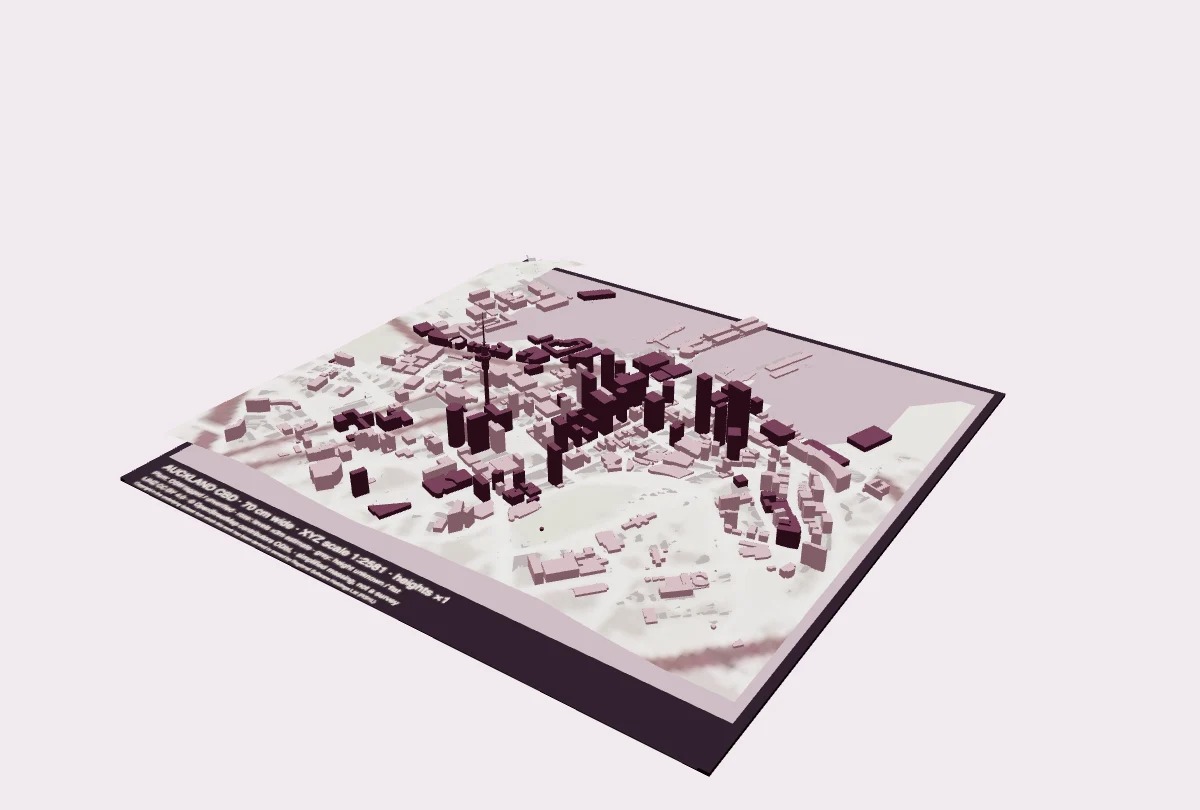
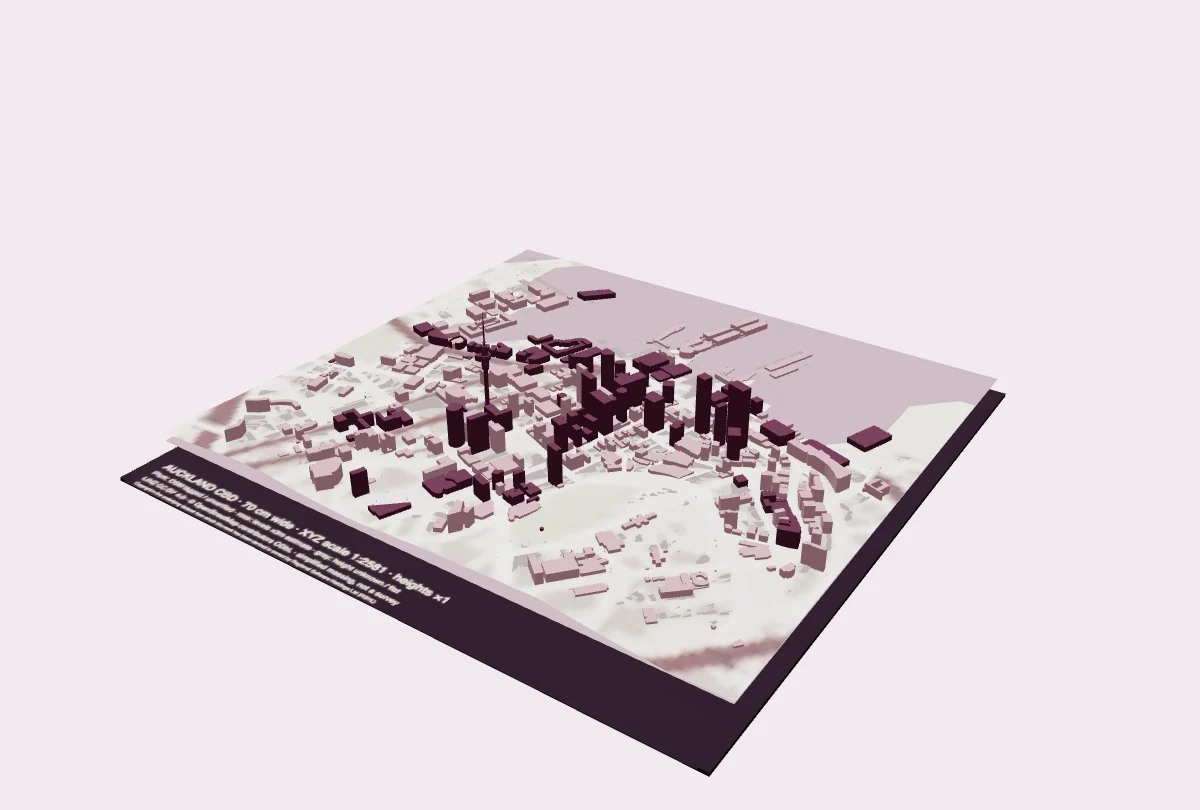
Align city water datum and request fixed-scale native AR

diff --git a/auckland/3d/index.html b/auckland/3d/index.html
@@ -1,1 +1,1 @@
-<!doctype html><html lang="en-NZ"><head><meta charset="utf-8"><meta name="viewport" content="width=device-width,initial-scale=1"><title>Auckland city in 3D · assembl lab</title><link rel="stylesheet" href="/site-v2/site-v2.css"><link rel="stylesheet" href="./style.css"><script type="importmap">{"imports":{"three":"/assets/vendor/three/three.module.min.js","three/addons/":"/assets/vendor/three/addons/"}}</script></head><body><header><a href="/auckland/">assembl. <small>lab / Auckland atlas</small></a><span>CITY + TERRAIN · 04</span></header><main><div class="intro"><p class="eyebrow">Tāmaki Makaurau · terrain you can turn</p><h1>Auckland, in three dimensions.</h1><p>Explore real city-centre footprints, sourced height tags and the land beneath them.</p></div><div class="workspace"><section class="viewer" aria-label="Interactive Auckland terrain"><div class="toolbar"><span>LINZ TERRAIN + OPEN MAP DATA</span><span>BROWSER HEIGHTS ×1</span></div><div id="stage"><img id="poster" src="./city-poster.webp" alt="Auckland CBD building footprints over real LINZ terrain"><canvas id="terrain" tabindex="0" aria-label="Auckland terrain. Drag to rotate, pinch or scroll to zoom. Use view buttons for keyboard navigation."></canvas><p id="status" role="status">Loading the terrain…</p></div><div class="city-layers"><label><input type="checkbox" data-building-layer="tagged" checked> Tagged heights</label><label><input type="checkbox" data-building-layer="estimated" checked> Estimated heights</label><label><input type="checkbox" data-building-layer="unknown" checked> Unknown: flat</label></div><div class="views" role="group" aria-label="Terrain views"><button data-view="city" aria-pressed="true">City centre</button><button data-view="waterfront" aria-pressed="false">Waterfront</button><button data-view="overview" aria-pressed="false">Whole harbour</button><button data-view="skytower" aria-pressed="false">Sky Tower</button><button id="reset">Reset view</button></div><p class="hint">Drag to turn · pinch or scroll to zoom · camera starts looking inland from the harbour</p></section><aside><p class="eyebrow">Explore → notice → explain</p><h2 id="place-title">A city, with its evidence visible.</h2><p id="place-copy">Tap a building to inspect its height source. Dark plum: OSM height tag. Rose: estimated from mapped levels. Grey: height unknown, footprint only.</p><label for="building-picker" class="small">Inspect a named building</label><select id="building-picker"><option value="">Choose a building</option></select><a id="building-source" hidden target="_blank" rel="noopener">Inspect this OSM building ↗</a><div class="scale"><strong>True-scale browser city.</strong><p>Browser terrain and building heights use the same scale (×1). Coverage is a bounded CBD extract, not all Auckland. Tagged heights are not independently verified; estimated heights use 3 m per mapped level.</p></div><h2 class="ar-title">City-model AR</h2><p class="ar-copy">Tap below on this phone to place the CBD city crop. It uses the same building meshes and terrain surface as the browser, uniformly scaled to 70 cm wide (about 1:2,581), heights ×1. The wider harbour is excluded. Source selectors and layer controls remain in the browser.</p><a id="quicklook" class="cta" rel="ar" href="./auckland-city.usdz"><img src="./city-ar-poster.webp" alt="">View city on iPhone / iPad <span>↗</span></a><a id="android" class="cta secondary" href="./auckland-city.glb">View city on Android <span>↗</span></a><p id="ar-note" class="small" role="status"></p><div class="downloads"><a href="./auckland-city.usdz" download>Download USDZ</a><a href="./auckland-city.glb" download>Download GLB</a></div><p class="small">Sky Tower uses 16 simplified OSM-tagged parts, not an architectural model; <a href="https://www.openstreetmap.org/relation/19745928" target="_blank" rel="noopener">its mapped footprint and 328 m height tag</a> are unverified. Nine unsupported/height-unknown parts and all interiors are omitted. This remains simplified city massing with unverified/estimated heights.</p><p class="small">AR needs a compatible device. If unavailable, keep exploring this browser model. Physical-device placement is not yet tested.</p></aside></div><section class="sources"><h2>A model with its sources attached.</h2><p>Terrain: Toitū Te Whenua LINZ, CC BY 4.0. Bare-earth elevations in NZVD2016, from the existing Auckland sample asset, returned to ×1 vertical scale in this browser view. This mesh further resamples to approximately 112 m; it is not raw LiDAR or survey-grade detail. This browser view adds simplified OSM building extrusions, not detailed roof or facade models.</p><p>Mapped coastline, parks, streets and footprints: © OpenStreetMap contributors / OpenMapTiles via OpenFreeMap, ODbL 1.0. The fixed source extract may contain omissions or date differences. Water is a visual background, not bathymetry. Nothing here predicts floods, hazards or safe routes.</p><p><a href="./city-buildings.json">City source data & limits</a> · <a href="/auckland/">2D atlas</a> · <a href="./city-ar-manifest.json">City AR scale and crop</a> · <a href="/assets/models/auckland/linz-terrain.json">Terrain provenance</a> · <a href="/auckland/#sources">Map sources</a> · <a href="https://opendatacommons.org/licenses/odbl/1-0/">ODbL</a></p></section><p class="source-note">Terrain derivative attribution: Copyright in the underlying dataset from which this work has been derived is owned by Regional Software Holdings Ltd (RSHL).</p></main><script type="module" src="./viewer.js"></script><noscript><p>JavaScript is off. The terrain image, source notes and model downloads remain available.</p></noscript></body></html>
+<!doctype html><html lang="en-NZ"><head><meta charset="utf-8"><meta name="viewport" content="width=device-width,initial-scale=1"><title>Auckland city in 3D · assembl lab</title><link rel="stylesheet" href="/site-v2/site-v2.css"><link rel="stylesheet" href="./style.css"><script type="importmap">{"imports":{"three":"/assets/vendor/three/three.module.min.js","three/addons/":"/assets/vendor/three/addons/"}}</script></head><body><header><a href="/auckland/">assembl. <small>lab / Auckland atlas</small></a><span>CITY + TERRAIN · 04</span></header><main><div class="intro"><p class="eyebrow">Tāmaki Makaurau · terrain you can turn</p><h1>Auckland, in three dimensions.</h1><p>Explore real city-centre footprints, sourced height tags and the land beneath them.</p></div><div class="workspace"><section class="viewer" aria-label="Interactive Auckland terrain"><div class="toolbar"><span>LINZ TERRAIN + OPEN MAP DATA</span><span>BROWSER HEIGHTS ×1</span></div><div id="stage"><img id="poster" src="./city-poster.webp" alt="Auckland CBD building footprints over real LINZ terrain"><canvas id="terrain" tabindex="0" aria-label="Auckland terrain. Drag to rotate, pinch or scroll to zoom. Use view buttons for keyboard navigation."></canvas><p id="status" role="status">Loading the terrain…</p></div><div class="city-layers"><label><input type="checkbox" data-building-layer="tagged" checked> Tagged heights</label><label><input type="checkbox" data-building-layer="estimated" checked> Estimated heights</label><label><input type="checkbox" data-building-layer="unknown" checked> Unknown: flat</label></div><div class="views" role="group" aria-label="Terrain views"><button data-view="city" aria-pressed="true">City centre</button><button data-view="waterfront" aria-pressed="false">Waterfront</button><button data-view="overview" aria-pressed="false">Whole harbour</button><button data-view="skytower" aria-pressed="false">Sky Tower</button><button id="reset">Reset view</button></div><p class="hint">Drag to turn · pinch or scroll to zoom · camera starts looking inland from the harbour</p></section><aside><p class="eyebrow">Explore → notice → explain</p><h2 id="place-title">A city, with its evidence visible.</h2><p id="place-copy">Tap a building to inspect its height source. Dark plum: OSM height tag. Rose: estimated from mapped levels. Grey: height unknown, footprint only.</p><label for="building-picker" class="small">Inspect a named building</label><select id="building-picker"><option value="">Choose a building</option></select><a id="building-source" hidden target="_blank" rel="noopener">Inspect this OSM building ↗</a><div class="scale"><strong>True-scale browser city.</strong><p>Browser terrain and building heights use the same scale (×1). Coverage is a bounded CBD extract, not all Auckland. Tagged heights are not independently verified; estimated heights use 3 m per mapped level.</p></div><h2 class="ar-title">City-model AR</h2><p class="ar-copy">Tap below on this phone to place the CBD city crop. It uses the same building meshes and terrain surface as the browser, uniformly scaled to 70 cm wide (about 1:2,581), heights ×1. The wider harbour is excluded. Source selectors and layer controls remain in the browser.</p><a id="quicklook" class="cta" rel="ar" href="./auckland-city.usdz#allowsContentScaling=0"><img src="./city-ar-poster.webp" alt="">View city on iPhone / iPad <span>↗</span></a><a id="android" class="cta secondary" href="./auckland-city.glb">View city on Android <span>↗</span></a><p id="ar-note" class="small" role="status"></p><div class="downloads"><a href="./auckland-city.usdz" download>Download USDZ</a><a href="./auckland-city.glb" download>Download GLB</a></div><p class="small">Sky Tower uses 16 simplified OSM-tagged parts, not an architectural model; <a href="https://www.openstreetmap.org/relation/19745928" target="_blank" rel="noopener">its mapped footprint and 328 m height tag</a> are unverified. Nine unsupported/height-unknown parts and all interiors are omitted. This remains simplified city massing with unverified/estimated heights.</p><p class="small">AR needs a compatible device. If unavailable, keep exploring this browser model. Physical-device placement is not yet tested.</p></aside></div><section class="sources"><h2>A model with its sources attached.</h2><p>Terrain: Toitū Te Whenua LINZ, CC BY 4.0. Bare-earth elevations in NZVD2016, from the existing Auckland sample asset, returned to ×1 vertical scale in this browser view. This mesh further resamples to approximately 112 m; it is not raw LiDAR or survey-grade detail. This browser view adds simplified OSM building extrusions, not detailed roof or facade models.</p><p>Mapped coastline, parks, streets and footprints: © OpenStreetMap contributors / OpenMapTiles via OpenFreeMap, ODbL 1.0. The fixed source extract may contain omissions or date differences. Water is a visual background, not bathymetry. Nothing here predicts floods, hazards or safe routes.</p><p><a href="./city-buildings.json">City source data & limits</a> · <a href="/auckland/">2D atlas</a> · <a href="./city-ar-manifest.json">City AR scale and crop</a> · <a href="/assets/models/auckland/linz-terrain.json">Terrain provenance</a> · <a href="/auckland/#sources">Map sources</a> · <a href="https://opendatacommons.org/licenses/odbl/1-0/">ODbL</a></p></section><p class="source-note">Terrain derivative attribution: Copyright in the underlying dataset from which this work has been derived is owned by Regional Software Holdings Ltd (RSHL).</p></main><script type="module" src="./viewer.js"></script><noscript><p>JavaScript is off. The terrain image, source notes and model downloads remain available.</p></noscript></body></html>

diff --git a/tools/pointcloud/city-ar/export.html b/tools/pointcloud/city-ar/export.html
@@ -1,6 +1,6 @@
 <!doctype html><html><head><meta charset="utf-8"><title>City AR export — local</title><script type="importmap">{"imports":{"three":"/assets/vendor/three/three.module.min.js","three/addons/":"/assets/vendor/three/addons/"}}</script></head><body><p>Shared browser city geometry → uniformly scaled CBD crop.</p><script type="module">
 import * as T from 'three';
-import {createCityModel} from '/auckland/3d/city-model.js';
+import {createCityModel,WATER_DATUM_Y} from '/auckland/3d/city-model.js';
 import {GLTFExporter} from 'three/addons/exporters/GLTFExporter.js';
 import {USDZExporter} from 'three/addons/exporters/USDZExporter.js';
 const {root,data,groups,landmark,landmarkMesh}=await createCityModel(),h=await(await fetch('/assets/models/auckland/linz-terrain.json')).json();
@@ -10,7 +10,7 @@ function clipped(g){const src=g.index?g.toNonIndexed():g,p=src.attributes.positi
 const core=new T.Group();core.name='Auckland_CBD_true_proportions';let terrain;
 root.traverse(o=>{if(o.isMesh&&o.name.includes('LINZ_bare'))terrain=o;});
 const land=new T.Mesh(clipped(terrain.geometry),terrain.material);land.name='LINZ_same_surface_CBD_crop_vertical_1x';core.add(land);
-const sea=new T.Mesh(new T.PlaneGeometry(xmax-xmin,zmax-zmin).rotateX(-Math.PI/2),new T.MeshStandardMaterial({color:'#b39bab',roughness:1}));sea.position.set((xmin+xmax)/2,.01622,(zmin+zmax)/2);sea.name='Water_background_not_bathymetry';core.add(sea);
+const sea=new T.Mesh(new T.PlaneGeometry(xmax-xmin,zmax-zmin).rotateX(-Math.PI/2),new T.MeshStandardMaterial({color:'#b39bab',roughness:1}));sea.position.set((xmin+xmax)/2,WATER_DATUM_Y,(zmin+zmax)/2);sea.name='Water_background_not_bathymetry';core.add(sea);
 const parity={};for(const [kind,m]of Object.entries(groups)){const q=m.clone();q.geometry=m.geometry.clone();q.geometry.deleteAttribute('feature');q.name='OSM_'+kind+'_heights';core.add(q);const a=m.geometry.attributes.position.array,b=q.geometry.attributes.position.array;parity[kind]={vertices:a.length/3,identical:a.length===b.length&&a.every((v,i)=>v===b[i])};}
 const sky=landmarkMesh.clone();sky.geometry=landmarkMesh.geometry.clone();core.add(sky);parity.skytower={vertices:sky.geometry.attributes.position.count,identical:sky.geometry.attributes.position.array.every((v,i)=>v===landmarkMesh.geometry.attributes.position.array[i])};
 const uniform=.7/(xmax-xmin),base=.0162,midX=(xmin+xmax)/2,midZ=(zmin+zmax)/2;
@@ -18,7 +18,7 @@ core.scale.setScalar(uniform);core.position.set(-midX*uniform,-base*uniform+.004
 const model=new T.Group();model.name='Auckland_CBD_70cm_XYZ_uniform_1x';model.add(core);
 const depth=(zmax-zmin)*uniform,board=new T.Mesh(new T.BoxGeometry(.72,.004,depth+.065),new T.MeshStandardMaterial({color:'#332332',roughness:1}));board.position.set(0,.002,.0225);board.name='Presentation_base_not_geographic';model.add(board);
 const c=document.createElement('canvas');c.width=2048;c.height=192;const ctx=c.getContext('2d');ctx.fillStyle='#332332';ctx.fillRect(0,0,2048,192);ctx.fillStyle='#fff6ee';ctx.font='42px sans-serif';ctx.fillText('AUCKLAND CBD · 70 cm wide · XYZ scale 1:'+Math.round(1/(data.scale*uniform))+' · heights ×1',35,52);ctx.font='27px sans-serif';ctx.fillText('Plum: OSM tagged / unverified · rose: levels ×3m estimate · grey: height unknown / flat',35,99);ctx.fillText('LINZ CC BY 4.0 · © OpenStreetMap contributors ODbL · simplified massing, not a survey',35,145);ctx.font='18px sans-serif';ctx.fillText('Copyright in the underlying dataset from which this work has been derived is owned by Regional Software Holdings Ltd (RSHL)',35,178);const texture=new T.CanvasTexture(c);texture.colorSpace=T.SRGBColorSpace;const plaque=new T.Mesh(new T.PlaneGeometry(.70,.055).rotateX(-Math.PI/2),new T.MeshStandardMaterial({map:texture,roughness:1}));plaque.position.set(0,.0041,depth/2+.030);plaque.name='Scale_sources_and_height_provenance';model.add(plaque);
-const hb=h.nztmBounds,cx=(hb.minX+hb.maxX)/2,cy=(hb.minY+hb.maxY)/2;const bounds=new T.Box3().setFromObject(model),manifest={units:'metres',upAxis:'Y',verticalExaggeration:1,uniformXYZScale: data.scale*uniform,scaleDenominator:1/(data.scale*uniform),cropWidthMetres:.7,cropDepthMetres:depth,modelDimensionsMetres:bounds.getSize(new T.Vector3()).toArray(),projectedCRS:'EPSG:2193',verticalDatum:'NZVD2016 EPSG:7839',projectedBounds:{west:cx+xmin/data.scale,east:cx+xmax/data.scale,south:cy-zmax/data.scale,north:cy-zmin/data.scale},sourceBuildingBboxWGS84:[174.755,-36.853,174.774,-36.839],heightCounts:data.counts,landmark:{name:landmark.name,parts:16,taggedHeightMetres:328,unverified:true,omittedParts:9,source:landmark.source},geometryParity:parity,source:data.source,sourceRetrieved:data.retrieved,limits:'Same CBD building meshes as browser, same terrain surface clipped to extent. Uniform XYZ scaling only; wider harbour excluded. Building bases use coarse terrain at centroid. Flat roofs, tagged heights unverified, levels-derived estimates, unknown flat footprints. Sky Tower is 16 simplified OSM-tagged parts, with 9 unsupported/height-unknown parts omitted; no interiors or architectural-detail claim. Native AR has no browser selectors. Device placement untested.'};
+const hb=h.nztmBounds,cx=(hb.minX+hb.maxX)/2,cy=(hb.minY+hb.maxY)/2;const bounds=new T.Box3().setFromObject(model),manifest={waterDatum:{sourceY:WATER_DATUM_Y,elevationNZVD2016Metres:0,meaning:'Datum reference surface, not observed tide or bathymetry'},units:'metres',upAxis:'Y',verticalExaggeration:1,uniformXYZScale: data.scale*uniform,scaleDenominator:1/(data.scale*uniform),cropWidthMetres:.7,cropDepthMetres:depth,modelDimensionsMetres:bounds.getSize(new T.Vector3()).toArray(),projectedCRS:'EPSG:2193',verticalDatum:'NZVD2016 EPSG:7839',projectedBounds:{west:cx+xmin/data.scale,east:cx+xmax/data.scale,south:cy-zmax/data.scale,north:cy-zmin/data.scale},sourceBuildingBboxWGS84:[174.755,-36.853,174.774,-36.839],heightCounts:data.counts,landmark:{name:landmark.name,parts:16,taggedHeightMetres:328,unverified:true,omittedParts:9,source:landmark.source},geometryParity:parity,source:data.source,sourceRetrieved:data.retrieved,limits:'Same CBD building meshes as browser, same terrain surface clipped to extent. Uniform XYZ scaling only; wider harbour excluded. Building bases use coarse terrain at centroid. Flat roofs, tagged heights unverified, levels-derived estimates, unknown flat footprints. Sky Tower is 16 simplified OSM-tagged parts, with 9 unsupported/height-unknown parts omitted; no interiors or architectural-detail claim. Native AR has no browser selectors. Device placement untested.'};
 model.userData=manifest;
 const b64=b=>{let s='';const a=new Uint8Array(b);for(let i=0;i<a.length;i+=32768)s+=String.fromCharCode(...a.subarray(i,i+32768));return btoa(s)};
 window.exportCity=async()=>({glb:b64(await new GLTFExporter().parseAsync(model,{binary:true,maxTextureSize:2048})),usdz:b64(await new USDZExporter().parseAsync(model,{quickLookCompatible:true,maxTextureSize:2048,includeAnchoringProperties:true,ar:{anchoring:{type:'plane'},planeAnchoring:{alignment:'horizontal'}}})),manifest});window.ready=true;

diff --git a/auckland/3d/viewer.js b/auckland/3d/viewer.js
@@ -3,7 +3,7 @@ const quick=document.querySelector('#quicklook'),android=document.querySelector(
 const local=location.protocol!=='https:'||['localhost','127.0.0.1'].includes(location.hostname);
 const url=new URL('./auckland-city.glb',location.href).href;
 if(local){note.textContent='Local preview: native AR needs a phone-accessible HTTPS host. Download the models for testing; browser 3D works here.';for(const a of [quick,android]){a.setAttribute('aria-disabled','true');a.addEventListener('click',e=>e.preventDefault());}}
-else{const p=new URLSearchParams({file:url,mode:'ar_preferred',title:'Auckland CBD city · heights ×1',resizable:'true'});android.href=`intent://arvr.google.com/scene-viewer/1.2?${p}#Intent;scheme=https;package=com.google.ar.core;action=android.intent.action.VIEW;S.browser_fallback_url=${encodeURIComponent(location.href)};end;`;note.textContent='iPhone/iPad: Safari Quick Look. Android: Scene Viewer requires compatible AR services. Tap here on this phone. Initial CBD width 70 cm; XYZ proportions are uniform, heights ×1.';if(!/Android/i.test(navigator.userAgent))android.addEventListener('click',e=>{e.preventDefault();note.textContent='Open this page on an AR-capable Android phone, or download the GLB below.';});}
+else{const p=new URLSearchParams({file:url,mode:'ar_preferred',title:'Auckland CBD city · heights ×1',resizable:'false'});android.href=`intent://arvr.google.com/scene-viewer/1.2?${p}#Intent;scheme=https;package=com.google.ar.core;action=android.intent.action.VIEW;S.browser_fallback_url=${encodeURIComponent(location.href)};end;`;note.textContent='iPhone/iPad: Safari Quick Look. Android: Scene Viewer requires compatible AR services. Tap here on this phone. Fixed-scale launch requests a 70 cm CBD width (about 1:2581); XYZ proportions are uniform, heights ×1.';if(!/Android/i.test(navigator.userAgent))android.addEventListener('click',e=>{e.preventDefault();note.textContent='Open this page on an AR-capable Android phone, or download the GLB below.';});}
 import {cityScene} from './city-scene.js';
 function fallback(){stage.classList.remove('loaded');status.textContent='Interactive 3D unavailable in this browser; showing a static preview. Try another WebGL-capable browser, open the 2D atlas, or use the source links below.';document.querySelectorAll('.views button, [data-building-layer], #building-picker').forEach(b=>b.disabled=true);}
 try{

diff --git a/auckland/3d/city-model.js b/auckland/3d/city-model.js
@@ -1,10 +1,11 @@
 import * as T from 'three';
 import {GLTFLoader} from 'three/addons/loaders/GLTFLoader.js';
 import {mergeGeometries} from 'three/addons/utils/BufferGeometryUtils.js';
+export const WATER_DATUM_Y=.018;
 export async function createCityModel(){
  const root=new T.Group();root.name='Auckland_CBD_source_aware_city_1x';
  const [gltf,data]=await Promise.all([new GLTFLoader().loadAsync('/auckland/3d/auckland-tabletop.glb'),fetch('/auckland/3d/city-buildings.json').then(r=>{if(!r.ok)throw Error('City data unavailable');return r.json()})]);
- gltf.scene.traverse(o=>{if(!o.isMesh)return;if(o.name.includes('LINZ_bare')){const p=o.geometry.attributes.position;for(let i=0;i<p.count;i++)p.setY(i,.018+(p.getY(i)-.018)/5);p.needsUpdate=true;o.geometry.computeVertexNormals();}if(o.name.includes('plaque')||o.name.includes('plinth'))o.visible=false;});root.add(gltf.scene);
+ gltf.scene.traverse(o=>{if(!o.isMesh)return;if(o.name.includes('water_background'))o.position.y=WATER_DATUM_Y;if(o.name.includes('LINZ_bare')){const p=o.geometry.attributes.position;for(let i=0;i<p.count;i++)p.setY(i,.018+(p.getY(i)-.018)/5);p.needsUpdate=true;o.geometry.computeVertexNormals();}if(o.name.includes('plaque')||o.name.includes('plinth'))o.visible=false;});root.add(gltf.scene);
  const groups={},palette={tagged:'#63384f',estimated:'#c29cab',unknown:'#9b9196'};let triangles=0;
  for(const kind of Object.keys(palette)){const geometries=[];data.buildings.forEach((b,id)=>{if(b.kind!==kind)return;const shape=new T.Shape(b.points.map(([x,z])=>new T.Vector2(x,-z)));let g=kind==='unknown'?new T.ShapeGeometry(shape):new T.ExtrudeGeometry(shape,{depth:b.height*data.scale,bevelEnabled:false,steps:1,curveSegments:1});g.rotateX(-Math.PI/2);g.translate(0,b.ground+.000003,0);if(g.index)g=g.toNonIndexed();g.deleteAttribute('uv');g.setAttribute('feature',new T.Float32BufferAttribute(new Float32Array(g.attributes.position.count).fill(id),1));geometries.push(g);});const merged=mergeGeometries(geometries);geometries.forEach(g=>g.dispose());const m=new T.Mesh(merged,new T.MeshStandardMaterial({color:palette[kind],roughness:.9,side:T.DoubleSide}));triangles+=merged.attributes.position.count/3;groups[kind]=m;root.add(m);}
  const landmark=await(await fetch('/auckland/3d/skytower-parts.json')).json(),parts=[];

diff --git a/tools/pointcloud/city-ar/README.md b/tools/pointcloud/city-ar/README.md
@@ -10,7 +10,7 @@ Sky Tower was absent because the original importer selected closed building ways
 
 ## Scale
 
-EPSG:2193 projected metres, NZVD2016 (EPSG:7839). Exact bounds, WGS84 corners, source provenance, geometry parity and ground-reference formula are in `city-ar-manifest.json`. Crop is about 1806.932 × 1667.128 real metres, presented 0.70 × 0.64584 metres, scale approximately 1:2581.331. Whole presentation including base measures 0.720 × 0.163925 × 0.713340 metres (XYZ). Native apps may let users resize uniformly. Presentation base and water backdrop are not geographic elevations/bathymetry.
+EPSG:2193 projected metres, NZVD2016 (EPSG:7839). Exact bounds, WGS84 corners, source provenance, geometry parity and ground-reference formula are in `city-ar-manifest.json`. Crop is about 1806.932 × 1667.128 real metres, presented 0.70 × 0.64584 metres, scale approximately 1:2581.331. Whole presentation including base measures 0.720 × 0.163925 × 0.713340 metres (XYZ). Default launch requests fixed scale: Quick Look allowsContentScaling=0 and Scene Viewer resizable=false. Downloaded files opened independently may allow resizing, which changes scale. Presentation base and water backdrop are presentation elements; water is now the shared NZVD2016 zero reference plane, not an observed tide or bathymetry.
 
 ## Reproduction and checks
 
@@ -21,7 +21,7 @@ node --experimental-strip-types tools/pointcloud/city-ar/finalize.mjs
 /usr/bin/usdchecker --arkit auckland/3d/auckland-city.usdz
 ```
 
-`review.html` loads actual exported GLB for visual inspection. Final checks: 26,215 triangles; finite positions; valid buffer ranges; uniform core scale; all four geometry parity groups identical; USDZ stored entries aligned to 64 bytes, Y up/metres. GLB 3,838,108 bytes; USDZ 8,702,715 bytes. Apple validator reports Success (system duplicate-plugin registration diagnostics also printed). Not a full Khronos validator. Actual GLB desktop rendering inspected, eight draw calls. Browser Sky Tower view inspected at 320px, no horizontal overflow. Earlier synthetic HTTPS browser check verified same-phone Quick Look and Scene Viewer targets; local HTTP correctly disables launch while downloads remain available. Physical iPhone/Android placement, camera permission and native materials are NOT tested. Native AR does not include browser selectors/quiz controls.
+`review.html` loads actual exported GLB for visual inspection. Final checks: 26,215 triangles; finite positions; valid buffer ranges; uniform core scale; all four geometry parity groups identical; USDZ stored entries aligned to 64 bytes, Y up/metres. GLB 3,838,232 bytes; USDZ 8,702,714 bytes. Apple validator reports Success (system duplicate-plugin registration diagnostics also printed). Not a full Khronos validator. Actual GLB desktop rendering inspected, eight draw calls. Browser Sky Tower view inspected at 320px, no horizontal overflow. Earlier synthetic HTTPS browser check verified same-phone Quick Look and Scene Viewer targets; local HTTP correctly disables launch while downloads remain available. Physical iPhone/Android placement, camera permission and native materials are NOT tested. Native AR does not include browser selectors/quiz controls.
 
 ## Accurate future heights: bounded research, no replacement yet
 
